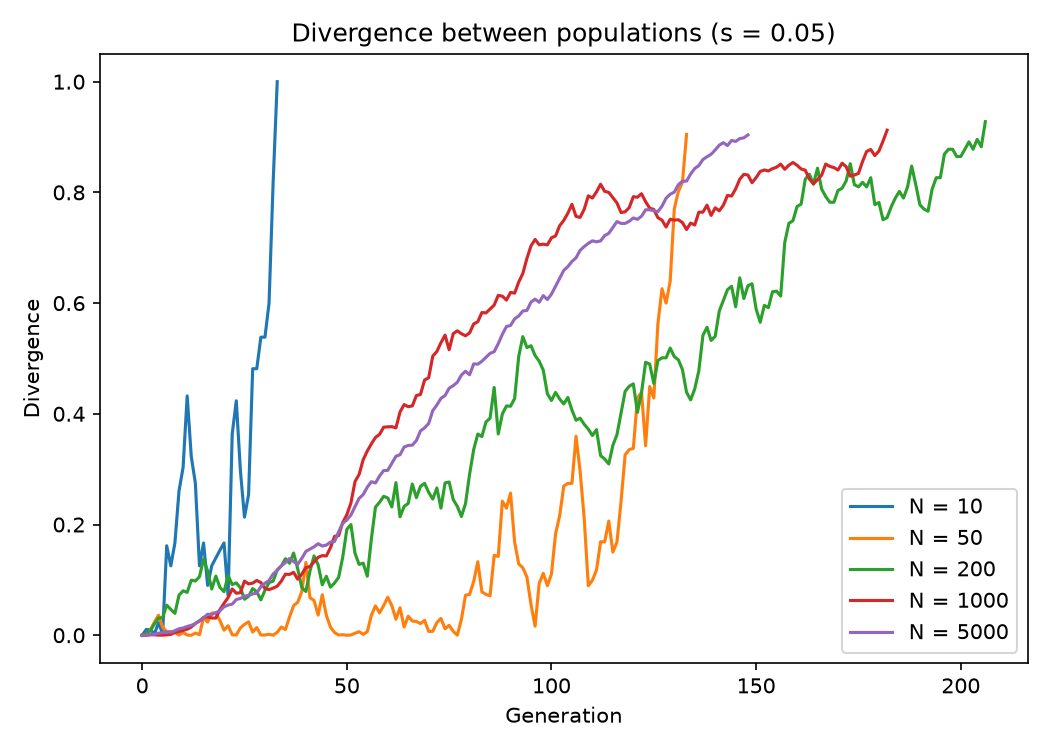
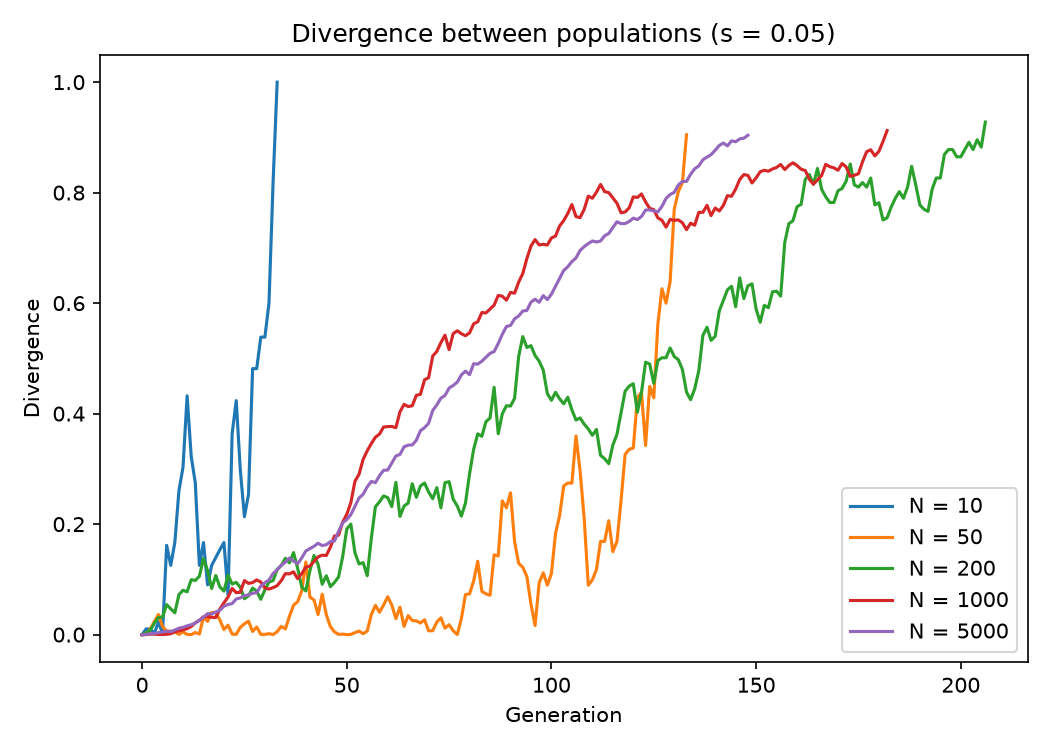
Added testing suite using pytest; Added assert statements to the model code

diff --git a/test_finch.py b/test_finch.py
@@ -1,0 +1,108 @@
+# Name: Ava Cai
+# Date: 11/3/26
+# Assignment: Project 3
+# Purpose of the program: Tests for the finch speciation model.
+# AI DECLARATION: AI was not used in the creation of this program.
+
+import numpy as np
+from pytest import approx # approx() allows tiny rounding differences when comparing decimals
+
+from Finch_Model import P0, H, GENE_DIV_THRESHOLD, select, drift, gene_div, run
+
+# Run with: .venv/bin/python -m pytest
+# pytest finds this file because its name starts with test_, and runs every
+# function whose name starts with test_
+# Learned this from: https://www.geeksforgeeks.org/python/getting-started-with-pytest/ 
+
+# Test select() 
+def test_select_no_selection_no_change():
+    # s = 0 means every genotype has the same fitness, so p stays the same
+    # assert passes if the condition is True; if it is False, pytest marks the test as failed
+    assert select(0.5, 0, H, favor_L=True) == approx(0.5)
+    assert select(0.5, 0, H, favor_L=False) == approx(0.5)
+
+def test_select_hand_calculated_value():
+    # p = 0.5, s = 0.5, h = 0.5, favoring L:
+    # fitness LL = 1, LS = 0.75, SS = 0.5
+    # w_bar = 0.25*1 + 0.5*0.75 + 0.25*0.5 = 0.75
+    # new p = (0.25*1 + 0.25*0.75) / 0.75 = 0.5833...
+    assert select(0.5, 0.5, 0.5, favor_L=True) == approx(0.4375 / 0.75)
+
+def test_select_direction():
+    # Population A (favors L) gains L, population B (favors S) loses L
+    assert select(0.5, 0.1, H, favor_L=True) > 0.5
+    assert select(0.5, 0.1, H, favor_L=False) < 0.5
+
+def test_select_fixed_allele_stays_fixed():
+    # If L is already at 0 or 1, selection has nothing to act on
+    assert select(0.0, 0.5, H, favor_L=True) == approx(0.0)
+    assert select(1.0, 0.5, H, favor_L=False) == approx(1.0)
+
+
+# Test drift()
+def test_drift_result_is_valid_frequency():
+    # Always between 0 and 1, and a whole number of copies out of 2n
+    np.random.seed(1) # fixed random seed 
+    n = 50
+    # Check many draws, since one draw could pass by luck
+    for _ in range(100):
+        p = drift(0.5, n)
+        assert 0 <= p <= 1
+        # p * 2n is the number of L copies, which has to be a whole number
+        assert p * 2 * n == approx(round(p * 2 * n))
+
+def test_drift_fixed_allele_stays_fixed():
+    # With no L (or all L) there is nothing to drift
+    assert drift(0.0, 50) == 0.0
+    assert drift(1.0, 50) == 1.0
+
+
+# Test gene_div()
+def test_gene_div_identical_populations():
+    # Same L frequency in both populations means no divergence
+    assert gene_div(0.4, 0.4) == 0.0
+
+def test_gene_div_completely_different():
+    # One all L, the other all S
+    assert gene_div(1.0, 0.0) == approx(1.0)
+
+def test_gene_div_both_fixed_same_allele():
+    # p_bar is 0 or 1, which would divide by 0
+    assert gene_div(0.0, 0.0) == 0.0
+    assert gene_div(1.0, 1.0) == 0.0
+
+def test_gene_div_hand_calculated_value():
+    # p_bar = 0.5, denom = 4*0.5*0.5 = 1, (0.75 - 0.25)^2 = 0.25
+    assert gene_div(0.75, 0.25) == approx(0.25)
+
+def test_gene_div_order_does_not_matter():
+    # Swapping population A and B should give the same divergence
+    assert gene_div(0.8, 0.1) == approx(gene_div(0.1, 0.8))
+
+
+# Test run()
+def test_run_starting_row():
+    # Generation 0: both populations at P0, no divergence yet
+    np.random.seed(1)
+    _, history = run(0.3)
+    # history[0] is the first row: generation, L in A, L in B, divergence
+    assert list(history[0]) == [0, P0, P0, 0.0]
+
+def test_run_strong_selection_diverges():
+    # Strong selection should cross the threshold, and stop right there
+    np.random.seed(1)
+    gen, history = run(0.8)
+    assert not np.isnan(gen) # it did cross (np.nan would mean it never did)
+    # history[-1] is the last row; column 0 is the generation, column 3 the divergence
+    assert history[-1, 0] == gen
+    assert history[-1, 3] >= GENE_DIV_THRESHOLD
+    # Every generation before the last was still below the threshold
+    # history[:-1, 3] is the divergence column for every row except the last
+    assert np.all(history[:-1, 3] < GENE_DIV_THRESHOLD)
+
+def test_run_one_row_per_generation():
+    # Generations go 0, 1, 2, ... with no gaps
+    np.random.seed(1)
+    gen, history = run(0.3)
+    # np.arange(gen + 1) is 0, 1, ..., gen; compare it to the generation column
+    assert np.array_equal(history[:, 0], np.arange(gen + 1))

diff --git a/Finch_Model.py b/Finch_Model.py
@@ -31,6 +31,13 @@ def select(p, s, h, favor_L):
     # Learned this from: 
     # https://nij.ojp.gov/nij-hosted-online-training-courses/population-genetics-and-
     # statistics-forensic-analysts/population-theory/hardy-weinberg-principle
+
+    # Check the inputs make sense before using them.
+    # assert stops the program with the message if the condition is False.
+    assert 0 <= p <= 1, f"p must be a frequency between 0 and 1, got {p}"
+    assert 0 <= s <= 1, f"s must be between 0 and 1, got {s}"
+    assert 0 <= h <= 1, f"h must be between 0 and 1, got {h}"
+
     q = 1 - p # frequency of S (small-beak allele); p + q = 1
 
     # Fitness of each genotype (1.0 = best, smaller = fewer surviving offspring).
@@ -46,6 +53,9 @@ def select(p, s, h, favor_L):
     # https://nij.ojp.gov/nij-hosted-online-training-courses/population-genetics-and-
     # statistics-forensic-analysts/population-theory/hardy-weinberg-principle
     w_bar = p**2 * w_LL + 2 * p * q * w_LS + q**2 * w_SS
+    # w_bar is 0 only if every bird has fitness 0 (e.g. s = 1 and only the
+    # unfavored genotype is left), which would mean dividing by 0 below
+    assert w_bar > 0, "mean fitness is 0, no birds survive selection"
 
     # New L frequency = share of L copies among survivors.
     # LL carries two L copies (p^2), LS carries one (half of 2pq = pq).
@@ -60,11 +70,16 @@ def drift(p, n):
     # then convert the count back to a frequency. This random chance is
     # genetic drift, so small populations wander more.
     # Learned to use this from: https://www.geeksforgeeks.org/numpy/binomial-distribution-in-numpy/
+    assert 0 <= p <= 1, f"p must be a frequency between 0 and 1, got {p}"
+    assert n > 0, f"population size must be at least 1, got {n}" # n = 0 would divide by 0
     return np.random.binomial(2 * n, p) / (2 * n)
 
 def gene_div(p_a, p_b):
     """Calculates the genetic divergence for two equal-sized populations at one gene locus."""
-    # Learned this from: https://en.wikipedia.org/wiki/Fixation_index  
+    # Learned this from: https://en.wikipedia.org/wiki/Fixation_index
+    # Both inputs are L frequencies, so both must be between 0 and 1
+    assert 0 <= p_a <= 1, f"p_a must be between 0 and 1, got {p_a}"
+    assert 0 <= p_b <= 1, f"p_b must be between 0 and 1, got {p_b}"
     p_bar = (p_a + p_b) / 2 # average L frequency across both populations
     denom = 4 * p_bar * (1 - p_bar) # scales the result to the 0-1 range
     # Squared difference between the populations, scaled. 
@@ -77,6 +92,10 @@ def run(s, n=N):
     Simulate until genetic divergence value crosses the threshold.
     Returns the generation it crossed (or np.nan if never) and the trajectory.
     """
+    # Check the settings once up front, so a bad value fails with a clear message
+    assert 0 <= s <= 1, f"s must be between 0 and 1, got {s}"
+    assert n > 0, f"population size must be at least 1, got {n}"
+
     p_a = p_b = P0 # both populations start with the same L frequency
     history = [(0, p_a, p_b, gene_div(p_a, p_b))] # history: (generation, p_a, p_b, divergence)
 
